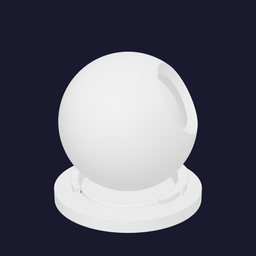
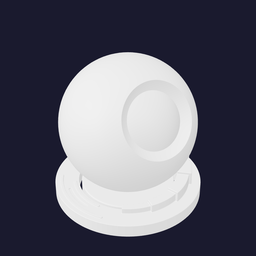
fix(bake): lock final shader-ball view direction (#361)
Visual A/B against bernhard's mat-vis#285 reference cells lands on
viewDir = (0.7, 0.55, 0.45) normalized:

- ~33° elevation (vs 18° before — more top-down, plinth fully
  visible with arc grooves)
- ~57° rightward from +Z (vs 49° before — more 3/4 from right)
- One sphere opening on the right shows through to the inner display
  sphere; the other opening is hidden on the back

This was the third nudge in the loop after the Z-up→Y-up coord-frame
fix landed; user-confirmed visual match.

Refs #361, #285

diff --git a/bake/preview/thumb_render.html b/bake/preview/thumb_render.html
@@ -135,7 +135,7 @@ async function main() {
   const sphere = new THREE.Sphere();
   bbox.getBoundingSphere(sphere);
   const bbRadius = Math.max(sphere.radius, center.length());
-  const viewDir = new THREE.Vector3(0.3, 0.4, 1).normalize();
+  const viewDir = new THREE.Vector3(0.7, 0.55, 0.45).normalize();
   camera.position.copy(center).addScaledVector(viewDir, 5 * bbRadius);
   camera.near = Math.max(0.1, 0.01 * bbRadius);
   camera.far = 100 * bbRadius;
